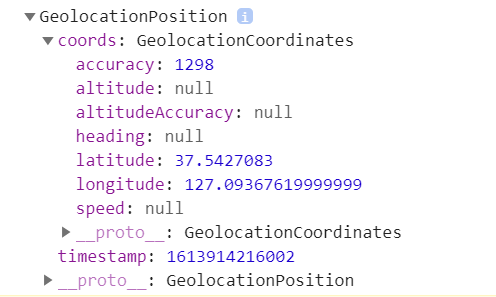
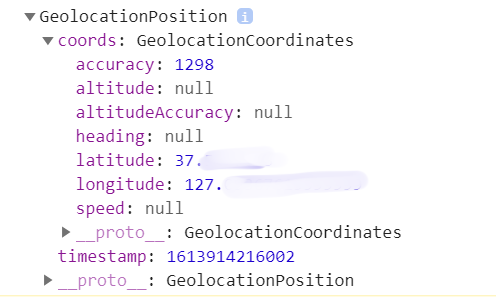
update weather.js

Changed region(s): [[0.4536, 0.6061, 0.7258, 0.6364], [0.3931, 0.5152, 0.5444, 0.5758]]

diff --git a/JS/0220/weather.js b/JS/0220/weather.js
@@ -1,7 +1,22 @@
 const COORDS = 'coords';
 
+function saveCoords(coordsObj){ //localStorage에 좌표 object를 저장하는 함수
+    localStorage.setItem(COORDS, JSON.stringify(coordsObj));
+    //object를 json.stringify를 이용하여 string화 시킨 후 저장
+}
+
 function handleGeoSuccess(position){ //좌표를 가져오는데 성공했을 경우 실행되는 함수
-    console.log(position);
+    const latitude = position.coords.latitude;
+    const longitude = position.coords.longitude;
+    const coordsObj = {
+        latitude,
+        longitude
+        //객체 (Object)에서 키 이름과 키값 변수명이 같을 땐
+        //그냥 이렇게 해줘도 latitude : latitude와 같은 결과를 갖는다
+    };
+    //위도와 경도를 객체 내에 저장
+    saveCoords(coordsObj);
+    //해당 객체를 localStorage에 저장하는 함수
 }
 
 function handleGeoError(){
